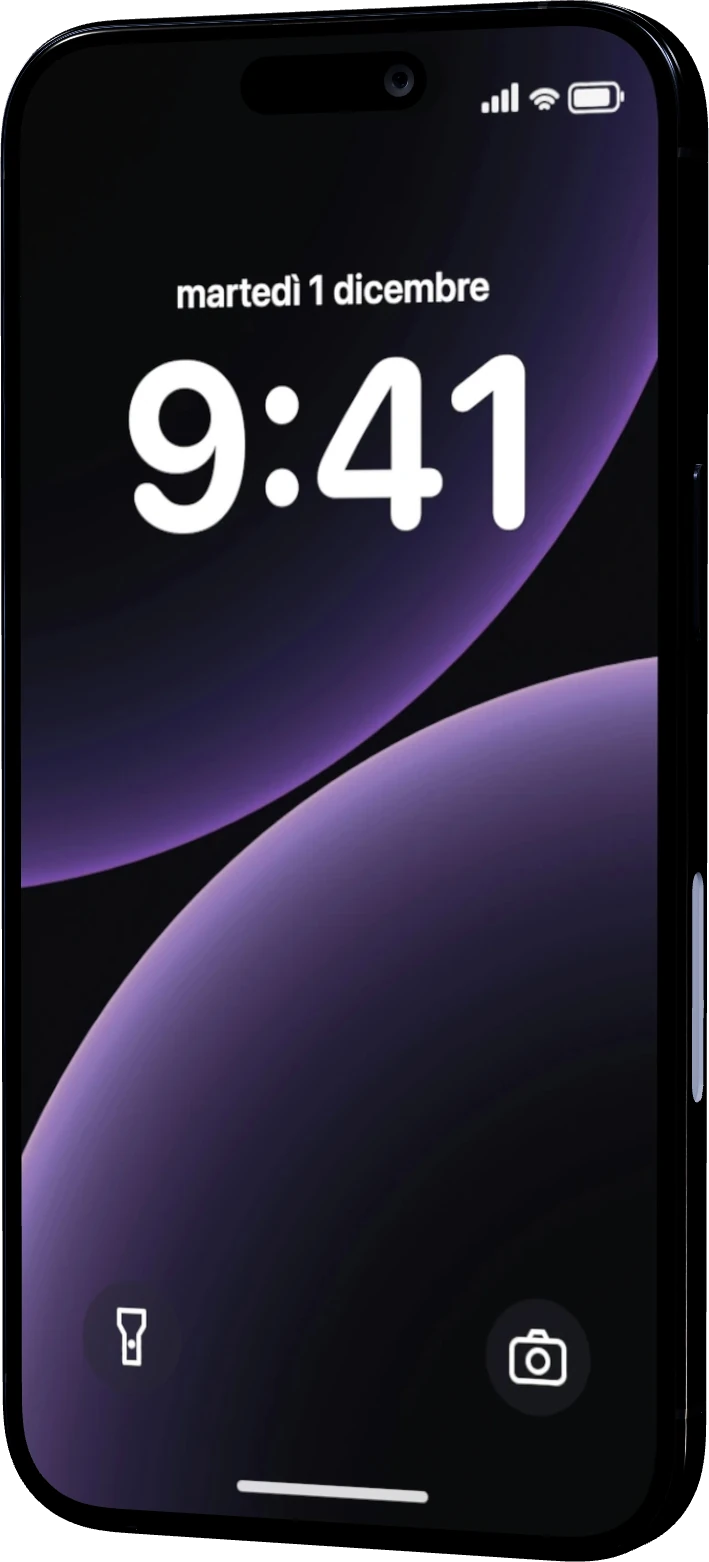
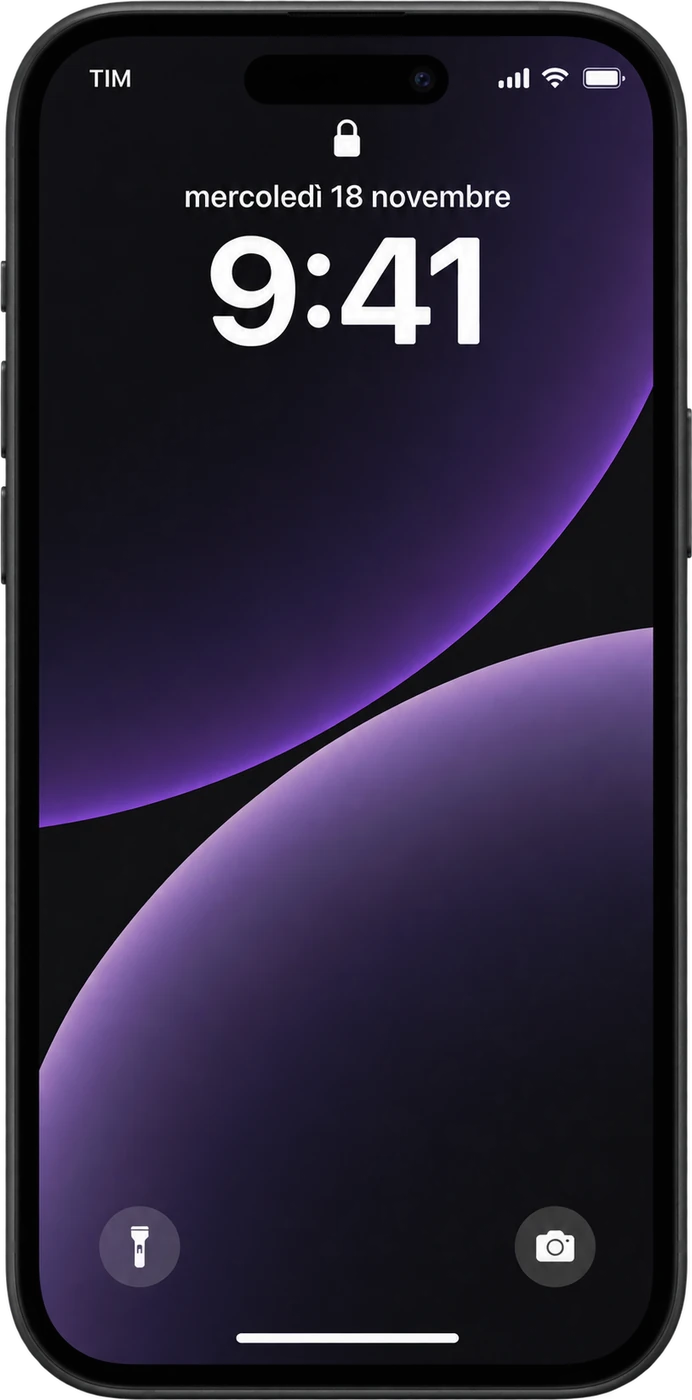
Promo telefoni: mockup forniti dal negozio, telefoni della stessa altezza
- iPhone 18 Pro / 18 Pro Max e iPhone 15 dai mockup forniti
- Telefoni con la stessa altezza nelle due card, su tutti gli schermi
- Da 1200 px la card degli iPhone 18 è un po' più larga per la coppia

diff --git a/css/style.css b/css/style.css
@@ -599,13 +599,14 @@ a.info-cell:hover{transform:translateY(-3px);box-shadow:var(--shadow);border-col
 /* schermi larghi: PC a tutta larghezza, sotto le due card dei telefoni affiancate
    (foto in alto, testo sotto, stessa altezza, bottoni allineati in fondo) */
 @media (min-width:1200px){
-  .promos{grid-template-columns:1fr 1fr}
+  .promos{grid-template-columns:minmax(0,1.25fr) minmax(0,1fr)}
   .promos > li:first-child{grid-column:1/-1}
   /* testo a sinistra, telefoni a destra (come la card del PC) */
   .promo-flip,.promo-tall{grid-template-columns:minmax(0,1.35fr) minmax(0,.65fr);align-items:center;min-height:0;gap:8px 16px}
   .promo-flip .promo-pc-media,.promo-tall .promo-pc-media{order:0;justify-self:center;padding:0;margin:0}
-  .promo-flip{grid-template-columns:minmax(0,1.1fr) minmax(0,.9fr)}
-  .promo-flip .promo-pc-media img,.promo-tall .promo-pc-media img{width:auto;max-width:100%;height:auto;max-height:260px}
+  .promo-flip{grid-template-columns:minmax(0,1fr) auto}
+  .promo-tall{grid-template-columns:minmax(0,1fr) auto}
+  .promo-flip .promo-pc-media img,.promo-tall .promo-pc-media img{width:auto;max-width:none;height:270px;max-height:none}
   .promo-flip::after,.promo-tall::after{left:auto;right:-14%;top:50%;width:62%;translate:0 -50%}
   .promo-flip .price-duo{flex-direction:column;gap:10px}
   .promo-flip .price-duo .price .num,.promo-tall .price .num{font-size:clamp(42px,3.6vw,58px)}
@@ -617,7 +618,7 @@ a.info-cell:hover{transform:translateY(-3px);box-shadow:var(--shadow);border-col
 /* terza card: telefono singolo verticale, più stretto */
 .promo-tall .promo-pc-media img{max-width:190px;animation-delay:-1.5s}
 /* immagini dei telefoni: stessa altezza massima in tutte le card */
-.promo-flip .promo-pc-media img,.promo-tall .promo-pc-media img{width:auto;max-height:280px;margin-inline:auto}
+.promo-flip .promo-pc-media img,.promo-tall .promo-pc-media img{width:auto;max-width:none;height:280px;max-height:none;margin-inline:auto}
 .price-duo{display:flex;flex-wrap:wrap;gap:12px 36px;margin-top:22px}
 .pd-name{display:block;margin-bottom:8px;font-size:14px;font-weight:600;color:#dfe3ff}
 .price-duo .price .num{font-size:clamp(52px,5.4vw,80px)}
@@ -626,8 +627,9 @@ a.info-cell:hover{transform:translateY(-3px);box-shadow:var(--shadow);border-col
 @media (max-width:760px){
   .promo-pc{grid-template-columns:1fr;min-height:0;padding:26px 22px 28px}
   .promo-pc-media{order:-1;margin:0 0 6px;max-width:280px;justify-self:center;width:76%;padding-left:0}
-  .promo-flip .promo-pc-media{order:-1;max-width:230px;width:62%}
-  .promo-tall .promo-pc-media{max-width:150px;width:42%}
+  .promo-flip .promo-pc-media{order:-1}
+  .promo-flip .promo-pc-media,.promo-tall .promo-pc-media{width:auto;max-width:100%}
+  .promo-flip .promo-pc-media img,.promo-tall .promo-pc-media img{height:230px}
   .price-duo{gap:10px 22px}.price-duo .price .num{font-size:44px}.price-duo .price .cur{font-size:22px}.pd-name{font-size:13px;margin-bottom:6px}
   .promo-pc::after{right:auto;left:50%;top:22%;width:90%;translate:-50% -50%}
   .promo-pc .promo-kicker{margin-top:22px}

diff --git a/index.html b/index.html
@@ -27,7 +27,7 @@
 <link rel="preconnect" href="https://fonts.googleapis.com">
 <link rel="preconnect" href="https://fonts.gstatic.com" crossorigin>
 <link href="https://fonts.googleapis.com/css2?family=Outfit:wght@200;300;400;500;600;700;800&display=swap" rel="stylesheet">
-<link rel="stylesheet" href="css/style.css?v=202611181220">
+<link rel="stylesheet" href="css/style.css?v=202611181226">
 </head>
 <body>
 <header class="nav">
@@ -131,7 +131,7 @@
             </div>
           </div>
           <div class="promo-pc-media" aria-hidden="true">
-            <img src="assets/promo/iphone-18-pro-promo.webp" alt="" width="1282" height="1396" loading="lazy">
+            <img src="assets/promo/iphone-18-pro-promo.webp" alt="" width="1325" height="1378" loading="lazy">
           </div>
         </article>
       </li>
@@ -154,7 +154,7 @@
             </div>
           </div>
           <div class="promo-pc-media" aria-hidden="true">
-            <img src="assets/promo/iphone-15-usato.webp" alt="" width="709" height="1562" loading="lazy">
+            <img src="assets/promo/iphone-15-usato.webp" alt="" width="692" height="1400" loading="lazy">
           </div>
         </article>
       </li>
@@ -297,9 +297,9 @@
 </footer>
 <script src="js/vendor/gsap.min.js"></script>
 <script src="js/vendor/ScrollTrigger.min.js"></script>
-<script src="js/config.js?v=202611181220"></script>
-<script src="js/reviews.js?v=202611181220"></script>
-<script src="js/shared.js?v=202611181220"></script>
-<script type="module" src="js/home.js?v=202611181220"></script>
+<script src="js/config.js?v=202611181226"></script>
+<script src="js/reviews.js?v=202611181226"></script>
+<script src="js/shared.js?v=202611181226"></script>
+<script type="module" src="js/home.js?v=202611181226"></script>
 </body>
 </html>

diff --git a/assistenza.html b/assistenza.html
@@ -27,7 +27,7 @@
 <link rel="preconnect" href="https://fonts.googleapis.com">
 <link rel="preconnect" href="https://fonts.gstatic.com" crossorigin>
 <link href="https://fonts.googleapis.com/css2?family=Outfit:wght@200;300;400;500;600;700;800&display=swap" rel="stylesheet">
-<link rel="stylesheet" href="css/style.css?v=202611181220">
+<link rel="stylesheet" href="css/style.css?v=202611181226">
 </head>
 <body>
 <header class="nav">
@@ -141,10 +141,10 @@
 </footer>
 <script src="js/vendor/gsap.min.js"></script>
 <script src="js/vendor/ScrollTrigger.min.js"></script>
-<script src="js/config.js?v=202611181220"></script>
-<script src="js/reviews.js?v=202611181220"></script>
-<script src="js/shared.js?v=202611181220"></script>
-<script src="js/forms.js?v=202611181220"></script>
-<script type="module" src="js/assist.js?v=202611181220"></script>
+<script src="js/config.js?v=202611181226"></script>
+<script src="js/reviews.js?v=202611181226"></script>
+<script src="js/shared.js?v=202611181226"></script>
+<script src="js/forms.js?v=202611181226"></script>
+<script type="module" src="js/assist.js?v=202611181226"></script>
 </body>
 </html>

diff --git a/servizi.html b/servizi.html
@@ -27,7 +27,7 @@
 <link rel="preconnect" href="https://fonts.googleapis.com">
 <link rel="preconnect" href="https://fonts.gstatic.com" crossorigin>
 <link href="https://fonts.googleapis.com/css2?family=Outfit:wght@200;300;400;500;600;700;800&display=swap" rel="stylesheet">
-<link rel="stylesheet" href="css/style.css?v=202611181220">
+<link rel="stylesheet" href="css/style.css?v=202611181226">
 </head>
 <body>
 <header class="nav">
@@ -155,9 +155,9 @@
 </footer>
 <script src="js/vendor/gsap.min.js"></script>
 <script src="js/vendor/ScrollTrigger.min.js"></script>
-<script src="js/config.js?v=202611181220"></script>
-<script src="js/reviews.js?v=202611181220"></script>
-<script src="js/shared.js?v=202611181220"></script>
-<script type="module" src="js/explorer.js?v=202611181220"></script>
+<script src="js/config.js?v=202611181226"></script>
+<script src="js/reviews.js?v=202611181226"></script>
+<script src="js/shared.js?v=202611181226"></script>
+<script type="module" src="js/explorer.js?v=202611181226"></script>
 </body>
 </html>

diff --git a/contatti.html b/contatti.html
@@ -26,7 +26,7 @@
 <link rel="preconnect" href="https://fonts.googleapis.com">
 <link rel="preconnect" href="https://fonts.gstatic.com" crossorigin>
 <link href="https://fonts.googleapis.com/css2?family=Outfit:wght@200;300;400;500;600;700;800&display=swap" rel="stylesheet">
-<link rel="stylesheet" href="css/style.css?v=202611181220">
+<link rel="stylesheet" href="css/style.css?v=202611181226">
 </head>
 <body>
 <header class="nav">
@@ -126,8 +126,8 @@
 </footer>
 <script src="js/vendor/gsap.min.js"></script>
 <script src="js/vendor/ScrollTrigger.min.js"></script>
-<script src="js/config.js?v=202611181220"></script>
-<script src="js/reviews.js?v=202611181220"></script>
-<script src="js/shared.js?v=202611181220"></script>
+<script src="js/config.js?v=202611181226"></script>
+<script src="js/reviews.js?v=202611181226"></script>
+<script src="js/shared.js?v=202611181226"></script>
 </body>
 </html>

diff --git a/js/explorer.js b/js/explorer.js
@@ -3,7 +3,7 @@
    - Mouse: trascina in ogni direzione
    - Touch: trascina di lato per ruotare; in verticale la pagina scorre (Safari ok)
    ========================================================= */
-import { THREE, hasWebGL, makeRenderer, makeScene, buildIphone, buildAndroid, buildMacbook, buildLaptop, buildDesktop, buildPS5, buildPS4, buildXbox } from './nc3d.js?v=202611181220';
+import { THREE, hasWebGL, makeRenderer, makeScene, buildIphone, buildAndroid, buildMacbook, buildLaptop, buildDesktop, buildPS5, buildPS4, buildXbox } from './nc3d.js?v=202611181226';
 
 const root = document.getElementById('explorer');
 

diff --git a/js/assist.js b/js/assist.js
@@ -1,7 +1,7 @@
 /* =========================================================
    ASSISTENZA — i 4 passaggi, con l'iPhone vero legato allo scroll
    ========================================================= */
-import { THREE, hasWebGL, makeRenderer, makeScene, buildIphoneExploded } from './nc3d.js?v=202611181220';
+import { THREE, hasWebGL, makeRenderer, makeScene, buildIphoneExploded } from './nc3d.js?v=202611181226';
 
 const wrap = document.getElementById('stepsWrap');
 const gsap = window.gsap, ScrollTrigger = window.ScrollTrigger;

diff --git a/js/home.js b/js/home.js
@@ -2,7 +2,7 @@
    HOME — iPhone vero che si scompone in esploso tecnico
    (come i siti degli orologi) e si ricompone seguendo lo scroll.
    ========================================================= */
-import { THREE, hasWebGL, makeRenderer, makeScene, buildIphoneExploded } from './nc3d.js?v=202611181220';
+import { THREE, hasWebGL, makeRenderer, makeScene, buildIphoneExploded } from './nc3d.js?v=202611181226';
 
 const section = document.getElementById('teardown');
 const canvas = document.getElementById('heroCanvas');

diff --git a/LEGGIMI.md b/LEGGIMI.md
@@ -14,8 +14,8 @@
 - [x] **Email** → info@newconnectionstore.it (in `js/config.js`): attiva nel modulo di Assistenza, nella pagina Contatti e nel footer.
 - [x] **Promo PC** → HP EliteBook 840 G5 a 299,99 €, dall'apertura al 31 dicembre. Dal 1° gennaio la card sparisce da sola (data in `index.html`, attributo `data-promo-until`). Nell'ultima settimana mostra "Ultimi N giorni!".
 - [ ] **Foto del negozio** → la sezione in home ("Il negozio") è pronta, con 5 riquadri. Metti le foto in `assets/negozio/` con questi nomi: `negozio-1.jpg` (la grande: il negozio), `negozio-2.jpg` (vetrina), `negozio-3.jpg` (banco), `negozio-4.jpg` (laboratorio), `negozio-5.jpg` (prodotti). Ogni foto che aggiungi prende il posto del suo riquadro, senza toccare il codice. Meglio foto orizzontali, larghe circa 1600 px.
-- [x] **Promo iPhone (nuovi)** → iPhone 18 Pro 256 GB a 1.350,00 € e 18 Pro Max 256 GB a 1.550,00 €, fino al 31 dicembre (si nasconde da sola il 1° gennaio). L'immagine `assets/promo/iphone-18-pro-promo.webp` è disegnata da noi col modello 3D del sito, con schermate di blocco sugli sfondi di iPhone 18 forniti da New Connection (scelta della cliente, 12/11/2026).
-- [x] **Promo iPhone 15 usato** → 128 GB, grado A, a 459,99 €, fino al 31 dicembre. Immagine `assets/promo/iphone-15-usato.webp` (stesso sfondo viola).
+- [x] **Promo iPhone (nuovi)** → iPhone 18 Pro 256 GB a 1.350,00 € e 18 Pro Max 256 GB a 1.550,00 €, fino al 31 dicembre (si nasconde da sola il 1° gennaio). L'immagine `assets/promo/iphone-18-pro-promo.webp` è composta dai mockup forniti da New Connection (18/11/2026).
+- [x] **Promo iPhone 15 usato** → 128 GB, grado A, a 459,99 €, fino al 31 dicembre. Immagine `assets/promo/iphone-15-usato.webp` dal mockup fornito da New Connection.
 - [ ] **Privacy e cookie con iubenda** → incollare il banner cookie di iubenda nel `<head>` di tutte le pagine e i link "Privacy" e "Cookie" nel footer. In iubenda dichiarare: **Google Maps** (mappa incorporata) e **Google Fonts** (font Outfit).
 - [x] **Anteprima social** → immagine `assets/og-image.jpg` e tag già inseriti nelle 4 pagine; icona per la Home dell'iPhone `assets/apple-touch-icon.png`.
 - [ ] **Dominio definitivo** → appena è deciso: rendere completo l'indirizzo dell'immagine di anteprima (`og:image`) e aggiungere `og:url`; creare `robots.txt` e `sitemap.xml`.
